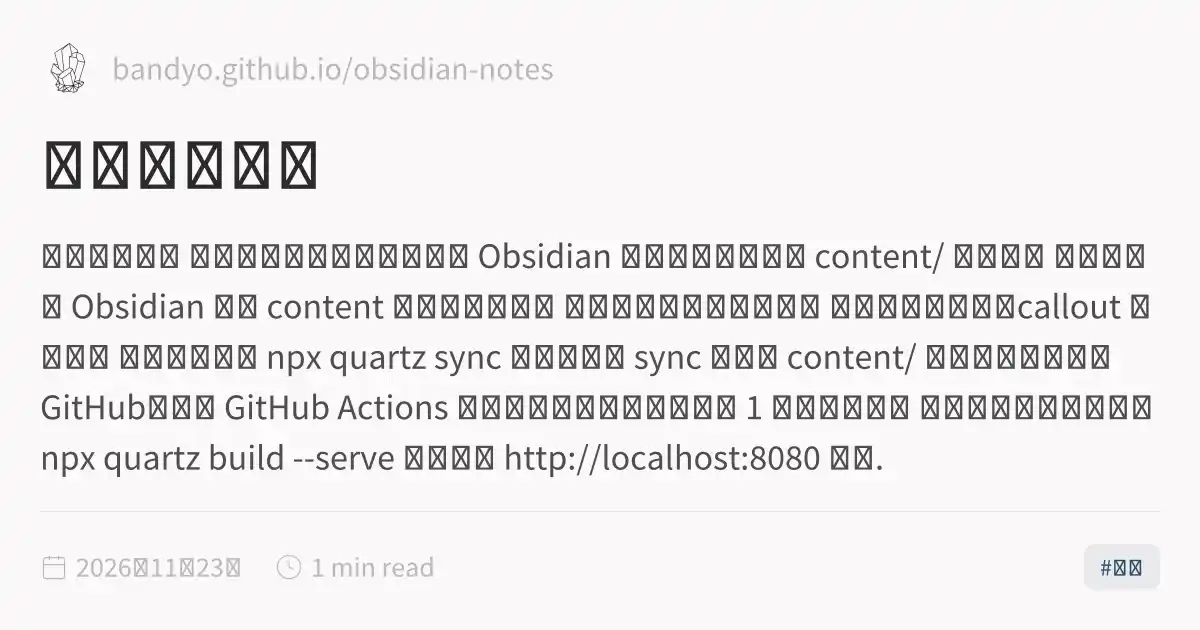
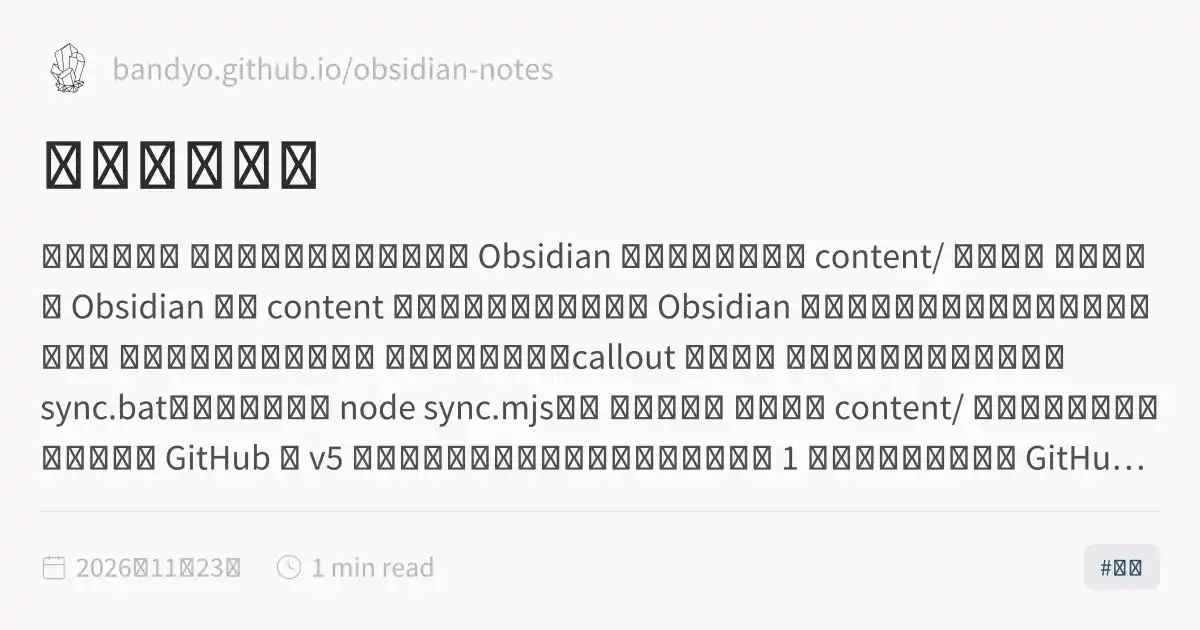
Publish Quartz site: 2026-11-24T01:07:00.835Z

Changed region(s): [[0.0308, 0.5429, 0.9867, 0.754], [0.4625, 0.4524, 0.9558, 0.5127]]

diff --git a/如何发布笔记.html b/如何发布笔记.html
@@ -1,15 +1,14 @@
 <!DOCTYPE html>
-<html lang="zh" dir="ltr"><head><title>如何发布笔记</title><meta charset="utf-8"/><link rel="preload" href="./index-efccc929.css" as="style"/><link rel="preload" href="./prescript-2bfc6315.js" as="script"/><link rel="preconnect" href="https://fonts.googleapis.com"/><link rel="preconnect" href="https://fonts.gstatic.com"/><link rel="stylesheet" href="https://fonts.googleapis.com/css2?family=Schibsted Grotesk:wght@400;700&amp;family=Source Sans Pro:ital,wght@0,400;0,600;1,400;1,600&amp;family=IBM Plex Mono:wght@400;600&amp;display=swap"/><link rel="preconnect" href="https://cdnjs.cloudflare.com" crossorigin="anonymous"/><meta name="viewport" content="width=device-width, initial-scale=1.0"/><meta name="og:site_name" content="我的笔记"/><meta property="og:title" content="如何发布笔记"/><meta property="og:type" content="website"/><meta name="twitter:card" content="summary_large_image"/><meta name="twitter:title" content="如何发布笔记"/><meta name="twitter:description" content="如何发布笔记 这个网站的源文件就是一个 Obsidian 库，位置在项目的 content/ 文件夹。 日常流程 用 Obsidian 打开 content 文件夹作为库。 像平常一样写笔记，支持 双向链接、标签、callout 等语法。 在终端执行： npx quartz sync 发生了什么 sync 会提交 content/ 里的改动并推送到 GitHub，随后 GitHub Actions 自动构建并发布网站，通常 1 分钟内生效。 如果只想先本地预览： npx quartz build --serve 然后打开 http://localhost:8080 指南."/><meta property="og:description" content="如何发布笔记 这个网站的源文件就是一个 Obsidian 库，位置在项目的 content/ 文件夹。 日常流程 用 Obsidian 打开 content 文件夹作为库。 像平常一样写笔记，支持 双向链接、标签、callout 等语法。 在终端执行： npx quartz sync 发生了什么 sync 会提交 content/ 里的改动并推送到 GitHub，随后 GitHub Actions 自动构建并发布网站，通常 1 分钟内生效。 如果只想先本地预览： npx quartz build --serve 然后打开 http://localhost:8080 指南."/><meta property="og:image:alt" content="如何发布笔记 这个网站的源文件就是一个 Obsidian 库，位置在项目的 content/ 文件夹。 日常流程 用 Obsidian 打开 content 文件夹作为库。 像平常一样写笔记，支持 双向链接、标签、callout 等语法。 在终端执行： npx quartz sync 发生了什么 sync 会提交 content/ 里的改动并推送到 GitHub，随后 GitHub Actions 自动构建并发布网站，通常 1 分钟内生效。 如果只想先本地预览： npx quartz build --serve 然后打开 http://localhost:8080 指南."/><meta property="twitter:domain" content="bandyo.github.io/obsidian-notes"/><meta property="og:url" content="https://bandyo.github.io/obsidian-notes/如何发布笔记"/><meta property="twitter:url" content="https://bandyo.github.io/obsidian-notes/如何发布笔记"/><link rel="icon" href="./static/icon.png"/><meta name="description" content="如何发布笔记 这个网站的源文件就是一个 Obsidian 库，位置在项目的 content/ 文件夹。 日常流程 用 Obsidian 打开 content 文件夹作为库。 像平常一样写笔记，支持 双向链接、标签、callout 等语法。 在终端执行： npx quartz sync 发生了什么 sync 会提交 content/ 里的改动并推送到 GitHub，随后 GitHub Actions 自动构建并发布网站，通常 1 分钟内生效。 如果只想先本地预览： npx quartz build --serve 然后打开 http://localhost:8080 指南."/><meta name="generator" content="Quartz"/><link href="./index-efccc929.css" rel="stylesheet" type="text/css" data-persist="true"/><link href="./component-735924e0.css" rel="stylesheet" type="text/css" data-persist="true"/><link href="./component-589c1cea.css" rel="stylesheet" type="text/css" data-persist="true"/><link href="./component-bbc3f7c0.css" rel="stylesheet" type="text/css" data-persist="true"/><link href="./component-2911f5d1.css" rel="stylesheet" type="text/css" data-persist="true"/><link href="./component-e427079e.css" rel="stylesheet" type="text/css" data-persist="true"/><link href="./component-53b25b2b.css" rel="stylesheet" type="text/css" data-persist="true"/><link href="./component-c93c6a44.css" rel="stylesheet" type="text/css" data-persist="true"/><link href="./component-8a06014f.css" rel="stylesheet" type="text/css" data-persist="true"/><link href="./component-77d6a441.css" rel="stylesheet" type="text/css" data-persist="true"/><link href="./component-6ee21cee.css" rel="stylesheet" type="text/css" data-persist="true"/><link href="./component-b43df3ac.css" rel="stylesheet" type="text/css" data-persist="true"/><link href="./component-34bdfded.css" rel="stylesheet" type="text/css" data-persist="true"/><link href="./component-9406c2cd.css" rel="stylesheet" type="text/css" data-persist="true"/><link href="./component-642859cd.css" rel="stylesheet" type="text/css" data-persist="true"/><link href="./component-4abc06bd.css" rel="stylesheet" type="text/css" data-persist="true"/><link href="./component-274a3dfe.css" rel="stylesheet" type="text/css" data-persist="true"/><link href="./component-94cb6c84.css" rel="stylesheet" type="text/css" data-persist="true"/><link href="./component-03d1d388.css" rel="stylesheet" type="text/css" data-persist="true"/><link href="./component-9f9b2774.css" rel="stylesheet" type="text/css" data-persist="true"/><link href="./component-7262b5a7.css" rel="stylesheet" type="text/css" data-persist="true"/><link href="./static/resource-style-a72b8c1b.css" rel="stylesheet" type="text/css" data-persist="true"/><link href="./static/resource-style-a5c806d2.css" rel="stylesheet" type="text/css" data-persist="true"/><link href="./static/resource-style-1c42656b.css" rel="stylesheet" type="text/css" data-persist="true"/><link href="./static/resource-style-12ad65a1.css" rel="stylesheet" type="text/css" data-persist="true"/><link href="./static/resource-style-cc3b757c.css" rel="stylesheet" type="text/css" data-persist="true"/><link href="./static/resource-style-89d3cd78.css" rel="stylesheet" type="text/css" data-persist="true"/><link href="https://cdn.jsdelivr.net/npm/katex@0.16.11/dist/katex.min.css" rel="stylesheet" type="text/css" data-persist="true"/><link href="./static/resource-style-99ba291e.css" rel="stylesheet" type="text/css" data-persist="true"/><script src="./prescript-2bfc6315.js" type="application/javascript" data-persist="true"></script><script type="application/javascript" data-persist="true">const fetchData = fetch("./static/contentIndex.json").then(r => { if (!r.ok) throw new Error("HTTP " + r.status); return r.json() }).catch(e => { console.warn("[Quartz] Could not load ./static/contentIndex.json (" + e.message + "); is configuration.contentIndex disabled?"); return {} });window.quartzStaticUrl = new URL("./static/", location.href).href</script><meta property="og:image:width" content="1200"/><meta property="og:image:height" content="630"/><meta property="og:image" content="https://bandyo.github.io/obsidian-notes/如何发布笔记-og-image.webp"/><meta property="og:image:url" content="https://bandyo.github.io/obsidian-notes/如何发布笔记-og-image.webp"/><meta name="twitter:image" content="https://bandyo.github.io/obsidian-notes/如何发布笔记-og-image.webp"/><meta property="og:image:type" content="image/webp"/></head><body data-slug="如何发布笔记" data-basepath="/obsidian-notes"><div id="quartz-root" class="page" data-frame="default"><div id="quartz-body"><div class="left sidebar" data-sidebar-mode="fit"><h2 class="page-title" data-quartz-plugin="page-title" data-quartz-component="PageTitle"><a href=".">我的笔记</a></h2><div class="mobile-only"><div class="spacer" data-quartz-plugin="spacer" data-quartz-component="Spacer"></div></div><div class="flex-component" style="flex-direction: row; flex-wrap: nowrap; gap: 0.5rem;"><div style="flex-grow: 1; flex-shrink: 1; flex-basis: auto; order: 0; align-self: center; justify-self: center;"><div class="search" data-quartz-plugin="search" data-quartz-component="Search"><button class="search-button" aria-label="搜索" aria-expanded="false"><svg role="img" xmlns="http://www.w3.org/2000/svg" viewBox="0 0 19.9 19.7"><title>Search</title><g class="search-path" fill="none"><path stroke-linecap="square" d="M18.5 18.3l-5.4-5.4"></path><circle cx="8" cy="8" r="7"></circle></g></svg><p>搜索</p></button><div class="search-container"><div class="search-space"><input autocomplete="off" class="search-bar" name="search" type="text" aria-label="搜索内容..." placeholder="搜索内容..."/><div class="search-layout" data-preview="true" data-field-priority="[&quot;title&quot;,&quot;content&quot;,&quot;tags&quot;]"></div></div></div></div></div><div style="flex-grow: 0; flex-shrink: 1; flex-basis: auto; order: 0; align-self: center; justify-self: center;"><button class="darkmode" aria-label="暗色模式" data-quartz-plugin="darkmode" data-quartz-component="Darkmode"><svg xmlns="http://www.w3.org/2000/svg" xmlns:xlink="http://www.w3.org/1999/xlink" version="1.1" class="dayIcon" x="0px" y="0px" viewBox="0 0 35 35" style="enable-background:new 0 0 35 35" xml:space="preserve" aria-label="暗色模式"><title>暗色模式</title><path d="M6,17.5C6,16.672,5.328,16,4.5,16h-3C0.672,16,0,16.672,0,17.5    S0.672,19,1.5,19h3C5.328,19,6,18.328,6,17.5z M7.5,26c-0.414,0-0.789,0.168-1.061,0.439l-2,2C4.168,28.711,4,29.086,4,29.5    C4,30.328,4.671,31,5.5,31c0.414,0,0.789-0.168,1.06-0.44l2-2C8.832,28.289,9,27.914,9,27.5C9,26.672,8.329,26,7.5,26z M17.5,6    C18.329,6,19,5.328,19,4.5v-3C19,0.672,18.329,0,17.5,0S16,0.672,16,1.5v3C16,5.328,16.671,6,17.5,6z M27.5,9    c0.414,0,0.789-0.168,1.06-0.439l2-2C30.832,6.289,31,5.914,31,5.5C31,4.672,30.329,4,29.5,4c-0.414,0-0.789,0.168-1.061,0.44    l-2,2C26.168,6.711,26,7.086,26,7.5C26,8.328,26.671,9,27.5,9z M6.439,8.561C6.711,8.832,7.086,9,7.5,9C8.328,9,9,8.328,9,7.5    c0-0.414-0.168-0.789-0.439-1.061l-2-2C6.289,4.168,5.914,4,5.5,4C4.672,4,4,4.672,4,5.5c0,0.414,0.168,0.789,0.439,1.06    L6.439,8.561z M33.5,16h-3c-0.828,0-1.5,0.672-1.5,1.5s0.672,1.5,1.5,1.5h3c0.828,0,1.5-0.672,1.5-1.5S34.328,16,33.5,16z     M28.561,26.439C28.289,26.168,27.914,26,27.5,26c-0.828,0-1.5,0.672-1.5,1.5c0,0.414,0.168,0.789,0.439,1.06l2,2    C28.711,30.832,29.086,31,29.5,31c0.828,0,1.5-0.672,1.5-1.5c0-0.414-0.168-0.789-0.439-1.061L28.561,26.439z M17.5,29    c-0.829,0-1.5,0.672-1.5,1.5v3c0,0.828,0.671,1.5,1.5,1.5s1.5-0.672,1.5-1.5v-3C19,29.672,18.329,29,17.5,29z M17.5,7    C11.71,7,7,11.71,7,17.5S11.71,28,17.5,28S28,23.29,28,17.5S23.29,7,17.5,7z M17.5,25c-4.136,0-7.5-3.364-7.5-7.5    c0-4.136,3.364-7.5,7.5-7.5c4.136,0,7.5,3.364,7.5,7.5C25,21.636,21.636,25,17.5,25z"></path></svg><svg xmlns="http://www.w3.org/2000/svg" xmlns:xlink="http://www.w3.org/1999/xlink" version="1.1" class="nightIcon" x="0px" y="0px" viewBox="0 0 100 100" style="enable-background:new 0 0 100 100" xml:space="preserve" aria-label="亮色模式"><title>亮色模式</title><path d="M96.76,66.458c-0.853-0.852-2.15-1.064-3.23-0.534c-6.063,2.991-12.858,4.571-19.655,4.571  C62.022,70.495,50.88,65.88,42.5,57.5C29.043,44.043,25.658,23.536,34.076,6.47c0.532-1.08,0.318-2.379-0.534-3.23  c-0.851-0.852-2.15-1.064-3.23-0.534c-4.918,2.427-9.375,5.619-13.246,9.491c-9.447,9.447-14.65,22.008-14.65,35.369  c0,13.36,5.203,25.921,14.65,35.368s22.008,14.65,35.368,14.65c13.361,0,25.921-5.203,35.369-14.65  c3.872-3.871,7.064-8.328,9.491-13.246C97.826,68.608,97.611,67.309,96.76,66.458z"></path></svg></button></div><div style="flex-grow: 0; flex-shrink: 1; flex-basis: auto; order: 0; align-self: center; justify-self: center;"><button class="readermode" aria-label="阅读模式" data-quartz-plugin="reader-mode" data-quartz-component="ReaderMode"><svg xmlns="http://www.w3.org/2000/svg" xmlns:xlink="http://www.w3.org/1999/xlink" version="1.1" class="readerIcon" fill="currentColor" stroke="currentColor" stroke-width="0.2" stroke-linecap="round" stroke-linejoin="round" width="64px" height="64px" viewBox="0 0 24 24" aria-label="阅读模式"><title>阅读模式</title><g transform="translate(-1.8, -1.8) scale(1.15, 1.2)"><path d="M8.9891247,2.5 C10.1384702,2.5 11.2209868,2.96705384 12.0049645,3.76669482 C12.7883914,2.96705384 13.8709081,2.5 15.0202536,2.5 L18.7549359,2.5 C19.1691495,2.5 19.5049359,2.83578644 19.5049359,3.25 L19.5046891,4.004 L21.2546891,4.00457396 C21.6343849,4.00457396 21.9481801,4.28672784 21.9978425,4.6528034 L22.0046891,4.75457396 L22.0046891,20.25 C22.0046891,20.6296958 21.7225353,20.943491 21.3564597,20.9931534 L21.2546891,21 L2.75468914,21 C2.37499337,21 2.06119817,20.7178461 2.01153575,20.3517706 L2.00468914,20.25 L2.00468914,4.75457396 C2.00468914,4.37487819 2.28684302,4.061083 2.65291858,4.01142057 L2.75468914,4.00457396 L4.50368914,4.004 L4.50444233,3.25 C4.50444233,2.87030423 4.78659621,2.55650904 5.15267177,2.50684662 L5.25444233,2.5 L8.9891247,2.5 Z M4.50368914,5.504 L3.50468914,5.504 L3.50468914,19.5 L10.9478955,19.4998273 C10.4513189,18.9207296 9.73864328,18.5588115 8.96709342,18.5065584 L8.77307039,18.5 L5.25444233,18.5 C4.87474657,18.5 4.56095137,18.2178461 4.51128895,17.8517706 L4.50444233,17.75 L4.50368914,5.504 Z M19.5049359,17.75 C19.5049359,18.1642136 19.1691495,18.5 18.7549359,18.5 L15.2363079,18.5 C14.3910149,18.5 13.5994408,18.8724714 13.0614828,19.4998273 L20.5046891,19.5 L20.5046891,5.504 L19.5046891,5.504 L19.5049359,17.75 Z M18.0059359,3.999 L15.0202536,4 L14.8259077,4.00692283 C13.9889509,4.06666544 13.2254227,4.50975805 12.7549359,5.212 L12.7549359,17.777 L12.7782651,17.7601316 C13.4923805,17.2719483 14.3447024,17 15.2363079,17 L18.0059359,16.999 L18.0056891,4.798 L18.0033792,4.75457396 L18.0056891,4.71 L18.0059359,3.999 Z M8.9891247,4 L6.00368914,3.999 L6.00599909,4.75457396 L6.00599909,4.75457396 L6.00368914,4.783 L6.00368914,16.999 L8.77307039,17 C9.57551536,17 10.3461406,17.2202781 11.0128313,17.6202194 L11.2536891,17.776 L11.2536891,5.211 C10.8200889,4.56369974 10.1361548,4.13636104 9.37521067,4.02745763 L9.18347055,4.00692283 L8.9891247,4 Z"></path></g></svg></button></div></div><div class="explorer" data-behavior="link" data-collapsed="collapsed" data-savestate="true" data-data-fns="{&quot;order&quot;:[&quot;filter&quot;,&quot;map&quot;,&quot;sort&quot;],&quot;sortFn&quot;:&quot;(a, b) => {\n    if (!a.isFolder &amp;&amp; !b.isFolder || a.isFolder &amp;&amp; b.isFolder) {\n      return (a.displayName || \&quot;\&quot;).localeCompare(b.displayName || \&quot;\&quot;, void 0, {\n        numeric: true,\n        sensitivity: \&quot;base\&quot;\n      });\n    }\n    if (!a.isFolder &amp;&amp; b.isFolder) {\n      return 1;\n    }\n    return -1;\n  }&quot;,&quot;filterFn&quot;:&quot;(node) => node.slugSegment !== \&quot;tags\&quot;&quot;,&quot;mapFn&quot;:&quot;(node) => {\n    return node;\n  }&quot;}" data-quartz-plugin="explorer" data-quartz-component="Explorer"><button type="button" class="explorer-toggle mobile-explorer hide-until-loaded" data-mobile="true" aria-controls="explorer-4" aria-label="探索"><svg xmlns="http://www.w3.org/2000/svg" width="24" height="24" viewBox="0 0 24 24" stroke-width="2" stroke-linecap="round" stroke-linejoin="round" class="lucide-menu"><line x1="4" x2="20" y1="12" y2="12"></line><line x1="4" x2="20" y1="6" y2="6"></line><line x1="4" x2="20" y1="18" y2="18"></line></svg></button><button type="button" class="title-button explorer-toggle desktop-explorer" data-mobile="false" aria-expanded="true"><h2>探索</h2><svg xmlns="http://www.w3.org/2000/svg" width="14" height="14" viewBox="5 8 14 8" fill="none" stroke="currentColor" stroke-width="2" stroke-linecap="round" stroke-linejoin="round" class="fold"><polyline points="6 9 12 15 18 9"></polyline></svg></button><div id="explorer-4" class="explorer-content" aria-expanded="false" role="group"><ul class="explorer-ul nav-files-container overflow" id="list-0"><li class="overflow-end"></li></ul></div><template id="template-file"><li class="tree-item nav-file"><a href="#" class="nav-file-title tree-item-self"><span class="tree-item-inner nav-file-title-content"></span></a></li></template><template id="template-folder"><li class="tree-item nav-folder"><div class="folder-container nav-folder-title tree-item-self"><svg xmlns="http://www.w3.org/2000/svg" width="12" height="12" viewBox="5 8 14 8" fill="none" stroke="currentColor" stroke-width="2" stroke-linecap="round" stroke-linejoin="round" class="folder-icon nav-folder-collapse-indicator collapse-icon"><polyline points="6 9 12 15 18 9"></polyline></svg><div><button class="folder-button"><span class="folder-title tree-item-inner nav-folder-title-content"></span></button></div></div><div class="folder-outer"><ul class="content tree-item-children nav-folder-children"></ul></div></li></template></div></div><div class="center"><div class="page-header"><div class="popover-hint"><nav class="breadcrumb-container" aria-label="breadcrumbs" data-quartz-plugin="breadcrumbs" data-quartz-component="Breadcrumbs"><div class="breadcrumb-element"><a href="./">Home</a><p> ❯ </p></div><div class="breadcrumb-element"><a href>如何发布笔记</a></div></nav><h1 class="article-title inline-title" data-quartz-plugin="article-title" data-quartz-component="ArticleTitle">如何发布笔记</h1><details class="note-properties metadata-container" open data-collapsed="false" data-quartz-plugin="note-properties" data-quartz-component="NotePropertiesComponent"><summary class="note-properties-header"><span class="note-properties-title">Properties</span><span class="note-properties-count">1</span></summary><table class="note-properties-table"><tbody><tr class="note-properties-row metadata-property"><td class="note-properties-key metadata-property-key">tags</td><td class="note-properties-value metadata-property-value"><span class="note-properties-tags"><a href="./tags/指南" class="internal internal-link tag-link">指南</a></span></td></tr></tbody></table></details><p show-comma="true" class="content-meta" data-quartz-plugin="content-meta" data-quartz-component="ContentMeta"><time datetime="2026-11-23T08:01:24.000Z">2026年11月23日</time><span>1分钟阅读</span></p></div></div><article class="popover-hint" data-quartz-plugin="content-page" data-quartz-component="ContentPage"><div class="markdown-preview-view markdown-rendered"><h1 id="如何发布笔记">如何发布笔记<a role="anchor" aria-hidden tabindex="-1" data-no-popover href="#如何发布笔记" class="internal internal-link"><svg width="18" height="18" viewBox="0 0 24 24" fill="none" stroke="currentColor" stroke-width="2" stroke-linecap="round" stroke-linejoin="round"><path d="M10 13a5 5 0 0 0 7.54.54l3-3a5 5 0 0 0-7.07-7.07l-1.72 1.71"></path><path d="M14 11a5 5 0 0 0-7.54-.54l-3 3a5 5 0 0 0 7.07 7.07l1.71-1.71"></path></svg></a></h1>
+<html lang="zh" dir="ltr"><head><title>如何发布笔记</title><meta charset="utf-8"/><link rel="preload" href="./index-efccc929.css" as="style"/><link rel="preload" href="./prescript-2bfc6315.js" as="script"/><link rel="preconnect" href="https://fonts.googleapis.com"/><link rel="preconnect" href="https://fonts.gstatic.com"/><link rel="stylesheet" href="https://fonts.googleapis.com/css2?family=Schibsted Grotesk:wght@400;700&amp;family=Source Sans Pro:ital,wght@0,400;0,600;1,400;1,600&amp;family=IBM Plex Mono:wght@400;600&amp;display=swap"/><link rel="preconnect" href="https://cdnjs.cloudflare.com" crossorigin="anonymous"/><meta name="viewport" content="width=device-width, initial-scale=1.0"/><meta name="og:site_name" content="我的笔记"/><meta property="og:title" content="如何发布笔记"/><meta property="og:type" content="website"/><meta name="twitter:card" content="summary_large_image"/><meta name="twitter:title" content="如何发布笔记"/><meta name="twitter:description" content="如何发布笔记 这个网站的源文件就是一个 Obsidian 库，位置在项目的 content/ 文件夹。 日常流程 用 Obsidian 打开 content 文件夹作为库（已注册到 Obsidian 的库列表，直接选「我的笔记」即可）。 像平常一样写笔记，支持 双向链接、标签、callout 等语法。 保存后，双击项目根目录的 sync.bat（或在终端运行 node sync.mjs）。 发生了什么 脚本会把 content/ 里的新增、修改、删除同步到 GitHub 的 v5 分支，然后自动构建并发布到网站，通常 1 分钟内生效。全程走 GitHub API，不需要 Git 推送。 如果只..."/><meta property="og:description" content="如何发布笔记 这个网站的源文件就是一个 Obsidian 库，位置在项目的 content/ 文件夹。 日常流程 用 Obsidian 打开 content 文件夹作为库（已注册到 Obsidian 的库列表，直接选「我的笔记」即可）。 像平常一样写笔记，支持 双向链接、标签、callout 等语法。 保存后，双击项目根目录的 sync.bat（或在终端运行 node sync.mjs）。 发生了什么 脚本会把 content/ 里的新增、修改、删除同步到 GitHub 的 v5 分支，然后自动构建并发布到网站，通常 1 分钟内生效。全程走 GitHub API，不需要 Git 推送。 如果只..."/><meta property="og:image:alt" content="如何发布笔记 这个网站的源文件就是一个 Obsidian 库，位置在项目的 content/ 文件夹。 日常流程 用 Obsidian 打开 content 文件夹作为库（已注册到 Obsidian 的库列表，直接选「我的笔记」即可）。 像平常一样写笔记，支持 双向链接、标签、callout 等语法。 保存后，双击项目根目录的 sync.bat（或在终端运行 node sync.mjs）。 发生了什么 脚本会把 content/ 里的新增、修改、删除同步到 GitHub 的 v5 分支，然后自动构建并发布到网站，通常 1 分钟内生效。全程走 GitHub API，不需要 Git 推送。 如果只..."/><meta property="twitter:domain" content="bandyo.github.io/obsidian-notes"/><meta property="og:url" content="https://bandyo.github.io/obsidian-notes/如何发布笔记"/><meta property="twitter:url" content="https://bandyo.github.io/obsidian-notes/如何发布笔记"/><link rel="icon" href="./static/icon.png"/><meta name="description" content="如何发布笔记 这个网站的源文件就是一个 Obsidian 库，位置在项目的 content/ 文件夹。 日常流程 用 Obsidian 打开 content 文件夹作为库（已注册到 Obsidian 的库列表，直接选「我的笔记」即可）。 像平常一样写笔记，支持 双向链接、标签、callout 等语法。 保存后，双击项目根目录的 sync.bat（或在终端运行 node sync.mjs）。 发生了什么 脚本会把 content/ 里的新增、修改、删除同步到 GitHub 的 v5 分支，然后自动构建并发布到网站，通常 1 分钟内生效。全程走 GitHub API，不需要 Git 推送。 如果只..."/><meta name="generator" content="Quartz"/><link href="./index-efccc929.css" rel="stylesheet" type="text/css" data-persist="true"/><link href="./component-735924e0.css" rel="stylesheet" type="text/css" data-persist="true"/><link href="./component-589c1cea.css" rel="stylesheet" type="text/css" data-persist="true"/><link href="./component-bbc3f7c0.css" rel="stylesheet" type="text/css" data-persist="true"/><link href="./component-2911f5d1.css" rel="stylesheet" type="text/css" data-persist="true"/><link href="./component-e427079e.css" rel="stylesheet" type="text/css" data-persist="true"/><link href="./component-53b25b2b.css" rel="stylesheet" type="text/css" data-persist="true"/><link href="./component-c93c6a44.css" rel="stylesheet" type="text/css" data-persist="true"/><link href="./component-8a06014f.css" rel="stylesheet" type="text/css" data-persist="true"/><link href="./component-77d6a441.css" rel="stylesheet" type="text/css" data-persist="true"/><link href="./component-6ee21cee.css" rel="stylesheet" type="text/css" data-persist="true"/><link href="./component-b43df3ac.css" rel="stylesheet" type="text/css" data-persist="true"/><link href="./component-34bdfded.css" rel="stylesheet" type="text/css" data-persist="true"/><link href="./component-9406c2cd.css" rel="stylesheet" type="text/css" data-persist="true"/><link href="./component-642859cd.css" rel="stylesheet" type="text/css" data-persist="true"/><link href="./component-4abc06bd.css" rel="stylesheet" type="text/css" data-persist="true"/><link href="./component-274a3dfe.css" rel="stylesheet" type="text/css" data-persist="true"/><link href="./component-94cb6c84.css" rel="stylesheet" type="text/css" data-persist="true"/><link href="./component-03d1d388.css" rel="stylesheet" type="text/css" data-persist="true"/><link href="./component-9f9b2774.css" rel="stylesheet" type="text/css" data-persist="true"/><link href="./component-7262b5a7.css" rel="stylesheet" type="text/css" data-persist="true"/><link href="./static/resource-style-a72b8c1b.css" rel="stylesheet" type="text/css" data-persist="true"/><link href="./static/resource-style-a5c806d2.css" rel="stylesheet" type="text/css" data-persist="true"/><link href="./static/resource-style-1c42656b.css" rel="stylesheet" type="text/css" data-persist="true"/><link href="./static/resource-style-12ad65a1.css" rel="stylesheet" type="text/css" data-persist="true"/><link href="./static/resource-style-cc3b757c.css" rel="stylesheet" type="text/css" data-persist="true"/><link href="./static/resource-style-89d3cd78.css" rel="stylesheet" type="text/css" data-persist="true"/><link href="https://cdn.jsdelivr.net/npm/katex@0.16.11/dist/katex.min.css" rel="stylesheet" type="text/css" data-persist="true"/><link href="./static/resource-style-99ba291e.css" rel="stylesheet" type="text/css" data-persist="true"/><script src="./prescript-2bfc6315.js" type="application/javascript" data-persist="true"></script><script type="application/javascript" data-persist="true">const fetchData = fetch("./static/contentIndex.json").then(r => { if (!r.ok) throw new Error("HTTP " + r.status); return r.json() }).catch(e => { console.warn("[Quartz] Could not load ./static/contentIndex.json (" + e.message + "); is configuration.contentIndex disabled?"); return {} });window.quartzStaticUrl = new URL("./static/", location.href).href</script><meta property="og:image:width" content="1200"/><meta property="og:image:height" content="630"/><meta property="og:image" content="https://bandyo.github.io/obsidian-notes/如何发布笔记-og-image.webp"/><meta property="og:image:url" content="https://bandyo.github.io/obsidian-notes/如何发布笔记-og-image.webp"/><meta name="twitter:image" content="https://bandyo.github.io/obsidian-notes/如何发布笔记-og-image.webp"/><meta property="og:image:type" content="image/webp"/></head><body data-slug="如何发布笔记" data-basepath="/obsidian-notes"><div id="quartz-root" class="page" data-frame="default"><div id="quartz-body"><div class="left sidebar" data-sidebar-mode="fit"><h2 class="page-title" data-quartz-plugin="page-title" data-quartz-component="PageTitle"><a href=".">我的笔记</a></h2><div class="mobile-only"><div class="spacer" data-quartz-plugin="spacer" data-quartz-component="Spacer"></div></div><div class="flex-component" style="flex-direction: row; flex-wrap: nowrap; gap: 0.5rem;"><div style="flex-grow: 1; flex-shrink: 1; flex-basis: auto; order: 0; align-self: center; justify-self: center;"><div class="search" data-quartz-plugin="search" data-quartz-component="Search"><button class="search-button" aria-label="搜索" aria-expanded="false"><svg role="img" xmlns="http://www.w3.org/2000/svg" viewBox="0 0 19.9 19.7"><title>Search</title><g class="search-path" fill="none"><path stroke-linecap="square" d="M18.5 18.3l-5.4-5.4"></path><circle cx="8" cy="8" r="7"></circle></g></svg><p>搜索</p></button><div class="search-container"><div class="search-space"><input autocomplete="off" class="search-bar" name="search" type="text" aria-label="搜索内容..." placeholder="搜索内容..."/><div class="search-layout" data-preview="true" data-field-priority="[&quot;title&quot;,&quot;content&quot;,&quot;tags&quot;]"></div></div></div></div></div><div style="flex-grow: 0; flex-shrink: 1; flex-basis: auto; order: 0; align-self: center; justify-self: center;"><button class="darkmode" aria-label="暗色模式" data-quartz-plugin="darkmode" data-quartz-component="Darkmode"><svg xmlns="http://www.w3.org/2000/svg" xmlns:xlink="http://www.w3.org/1999/xlink" version="1.1" class="dayIcon" x="0px" y="0px" viewBox="0 0 35 35" style="enable-background:new 0 0 35 35" xml:space="preserve" aria-label="暗色模式"><title>暗色模式</title><path d="M6,17.5C6,16.672,5.328,16,4.5,16h-3C0.672,16,0,16.672,0,17.5    S0.672,19,1.5,19h3C5.328,19,6,18.328,6,17.5z M7.5,26c-0.414,0-0.789,0.168-1.061,0.439l-2,2C4.168,28.711,4,29.086,4,29.5    C4,30.328,4.671,31,5.5,31c0.414,0,0.789-0.168,1.06-0.44l2-2C8.832,28.289,9,27.914,9,27.5C9,26.672,8.329,26,7.5,26z M17.5,6    C18.329,6,19,5.328,19,4.5v-3C19,0.672,18.329,0,17.5,0S16,0.672,16,1.5v3C16,5.328,16.671,6,17.5,6z M27.5,9    c0.414,0,0.789-0.168,1.06-0.439l2-2C30.832,6.289,31,5.914,31,5.5C31,4.672,30.329,4,29.5,4c-0.414,0-0.789,0.168-1.061,0.44    l-2,2C26.168,6.711,26,7.086,26,7.5C26,8.328,26.671,9,27.5,9z M6.439,8.561C6.711,8.832,7.086,9,7.5,9C8.328,9,9,8.328,9,7.5    c0-0.414-0.168-0.789-0.439-1.061l-2-2C6.289,4.168,5.914,4,5.5,4C4.672,4,4,4.672,4,5.5c0,0.414,0.168,0.789,0.439,1.06    L6.439,8.561z M33.5,16h-3c-0.828,0-1.5,0.672-1.5,1.5s0.672,1.5,1.5,1.5h3c0.828,0,1.5-0.672,1.5-1.5S34.328,16,33.5,16z     M28.561,26.439C28.289,26.168,27.914,26,27.5,26c-0.828,0-1.5,0.672-1.5,1.5c0,0.414,0.168,0.789,0.439,1.06l2,2    C28.711,30.832,29.086,31,29.5,31c0.828,0,1.5-0.672,1.5-1.5c0-0.414-0.168-0.789-0.439-1.061L28.561,26.439z M17.5,29    c-0.829,0-1.5,0.672-1.5,1.5v3c0,0.828,0.671,1.5,1.5,1.5s1.5-0.672,1.5-1.5v-3C19,29.672,18.329,29,17.5,29z M17.5,7    C11.71,7,7,11.71,7,17.5S11.71,28,17.5,28S28,23.29,28,17.5S23.29,7,17.5,7z M17.5,25c-4.136,0-7.5-3.364-7.5-7.5    c0-4.136,3.364-7.5,7.5-7.5c4.136,0,7.5,3.364,7.5,7.5C25,21.636,21.636,25,17.5,25z"></path></svg><svg xmlns="http://www.w3.org/2000/svg" xmlns:xlink="http://www.w3.org/1999/xlink" version="1.1" class="nightIcon" x="0px" y="0px" viewBox="0 0 100 100" style="enable-background:new 0 0 100 100" xml:space="preserve" aria-label="亮色模式"><title>亮色模式</title><path d="M96.76,66.458c-0.853-0.852-2.15-1.064-3.23-0.534c-6.063,2.991-12.858,4.571-19.655,4.571  C62.022,70.495,50.88,65.88,42.5,57.5C29.043,44.043,25.658,23.536,34.076,6.47c0.532-1.08,0.318-2.379-0.534-3.23  c-0.851-0.852-2.15-1.064-3.23-0.534c-4.918,2.427-9.375,5.619-13.246,9.491c-9.447,9.447-14.65,22.008-14.65,35.369  c0,13.36,5.203,25.921,14.65,35.368s22.008,14.65,35.368,14.65c13.361,0,25.921-5.203,35.369-14.65  c3.872-3.871,7.064-8.328,9.491-13.246C97.826,68.608,97.611,67.309,96.76,66.458z"></path></svg></button></div><div style="flex-grow: 0; flex-shrink: 1; flex-basis: auto; order: 0; align-self: center; justify-self: center;"><button class="readermode" aria-label="阅读模式" data-quartz-plugin="reader-mode" data-quartz-component="ReaderMode"><svg xmlns="http://www.w3.org/2000/svg" xmlns:xlink="http://www.w3.org/1999/xlink" version="1.1" class="readerIcon" fill="currentColor" stroke="currentColor" stroke-width="0.2" stroke-linecap="round" stroke-linejoin="round" width="64px" height="64px" viewBox="0 0 24 24" aria-label="阅读模式"><title>阅读模式</title><g transform="translate(-1.8, -1.8) scale(1.15, 1.2)"><path d="M8.9891247,2.5 C10.1384702,2.5 11.2209868,2.96705384 12.0049645,3.76669482 C12.7883914,2.96705384 13.8709081,2.5 15.0202536,2.5 L18.7549359,2.5 C19.1691495,2.5 19.5049359,2.83578644 19.5049359,3.25 L19.5046891,4.004 L21.2546891,4.00457396 C21.6343849,4.00457396 21.9481801,4.28672784 21.9978425,4.6528034 L22.0046891,4.75457396 L22.0046891,20.25 C22.0046891,20.6296958 21.7225353,20.943491 21.3564597,20.9931534 L21.2546891,21 L2.75468914,21 C2.37499337,21 2.06119817,20.7178461 2.01153575,20.3517706 L2.00468914,20.25 L2.00468914,4.75457396 C2.00468914,4.37487819 2.28684302,4.061083 2.65291858,4.01142057 L2.75468914,4.00457396 L4.50368914,4.004 L4.50444233,3.25 C4.50444233,2.87030423 4.78659621,2.55650904 5.15267177,2.50684662 L5.25444233,2.5 L8.9891247,2.5 Z M4.50368914,5.504 L3.50468914,5.504 L3.50468914,19.5 L10.9478955,19.4998273 C10.4513189,18.9207296 9.73864328,18.5588115 8.96709342,18.5065584 L8.77307039,18.5 L5.25444233,18.5 C4.87474657,18.5 4.56095137,18.2178461 4.51128895,17.8517706 L4.50444233,17.75 L4.50368914,5.504 Z M19.5049359,17.75 C19.5049359,18.1642136 19.1691495,18.5 18.7549359,18.5 L15.2363079,18.5 C14.3910149,18.5 13.5994408,18.8724714 13.0614828,19.4998273 L20.5046891,19.5 L20.5046891,5.504 L19.5046891,5.504 L19.5049359,17.75 Z M18.0059359,3.999 L15.0202536,4 L14.8259077,4.00692283 C13.9889509,4.06666544 13.2254227,4.50975805 12.7549359,5.212 L12.7549359,17.777 L12.7782651,17.7601316 C13.4923805,17.2719483 14.3447024,17 15.2363079,17 L18.0059359,16.999 L18.0056891,4.798 L18.0033792,4.75457396 L18.0056891,4.71 L18.0059359,3.999 Z M8.9891247,4 L6.00368914,3.999 L6.00599909,4.75457396 L6.00599909,4.75457396 L6.00368914,4.783 L6.00368914,16.999 L8.77307039,17 C9.57551536,17 10.3461406,17.2202781 11.0128313,17.6202194 L11.2536891,17.776 L11.2536891,5.211 C10.8200889,4.56369974 10.1361548,4.13636104 9.37521067,4.02745763 L9.18347055,4.00692283 L8.9891247,4 Z"></path></g></svg></button></div></div><div class="explorer" data-behavior="link" data-collapsed="collapsed" data-savestate="true" data-data-fns="{&quot;order&quot;:[&quot;filter&quot;,&quot;map&quot;,&quot;sort&quot;],&quot;sortFn&quot;:&quot;(a, b) => {\n    if (!a.isFolder &amp;&amp; !b.isFolder || a.isFolder &amp;&amp; b.isFolder) {\n      return (a.displayName || \&quot;\&quot;).localeCompare(b.displayName || \&quot;\&quot;, void 0, {\n        numeric: true,\n        sensitivity: \&quot;base\&quot;\n      });\n    }\n    if (!a.isFolder &amp;&amp; b.isFolder) {\n      return 1;\n    }\n    return -1;\n  }&quot;,&quot;filterFn&quot;:&quot;(node) => node.slugSegment !== \&quot;tags\&quot;&quot;,&quot;mapFn&quot;:&quot;(node) => {\n    return node;\n  }&quot;}" data-quartz-plugin="explorer" data-quartz-component="Explorer"><button type="button" class="explorer-toggle mobile-explorer hide-until-loaded" data-mobile="true" aria-controls="explorer-4" aria-label="探索"><svg xmlns="http://www.w3.org/2000/svg" width="24" height="24" viewBox="0 0 24 24" stroke-width="2" stroke-linecap="round" stroke-linejoin="round" class="lucide-menu"><line x1="4" x2="20" y1="12" y2="12"></line><line x1="4" x2="20" y1="6" y2="6"></line><line x1="4" x2="20" y1="18" y2="18"></line></svg></button><button type="button" class="title-button explorer-toggle desktop-explorer" data-mobile="false" aria-expanded="true"><h2>探索</h2><svg xmlns="http://www.w3.org/2000/svg" width="14" height="14" viewBox="5 8 14 8" fill="none" stroke="currentColor" stroke-width="2" stroke-linecap="round" stroke-linejoin="round" class="fold"><polyline points="6 9 12 15 18 9"></polyline></svg></button><div id="explorer-4" class="explorer-content" aria-expanded="false" role="group"><ul class="explorer-ul nav-files-container overflow" id="list-0"><li class="overflow-end"></li></ul></div><template id="template-file"><li class="tree-item nav-file"><a href="#" class="nav-file-title tree-item-self"><span class="tree-item-inner nav-file-title-content"></span></a></li></template><template id="template-folder"><li class="tree-item nav-folder"><div class="folder-container nav-folder-title tree-item-self"><svg xmlns="http://www.w3.org/2000/svg" width="12" height="12" viewBox="5 8 14 8" fill="none" stroke="currentColor" stroke-width="2" stroke-linecap="round" stroke-linejoin="round" class="folder-icon nav-folder-collapse-indicator collapse-icon"><polyline points="6 9 12 15 18 9"></polyline></svg><div><button class="folder-button"><span class="folder-title tree-item-inner nav-folder-title-content"></span></button></div></div><div class="folder-outer"><ul class="content tree-item-children nav-folder-children"></ul></div></li></template></div></div><div class="center"><div class="page-header"><div class="popover-hint"><nav class="breadcrumb-container" aria-label="breadcrumbs" data-quartz-plugin="breadcrumbs" data-quartz-component="Breadcrumbs"><div class="breadcrumb-element"><a href="./">Home</a><p> ❯ </p></div><div class="breadcrumb-element"><a href>如何发布笔记</a></div></nav><h1 class="article-title inline-title" data-quartz-plugin="article-title" data-quartz-component="ArticleTitle">如何发布笔记</h1><details class="note-properties metadata-container" open data-collapsed="false" data-quartz-plugin="note-properties" data-quartz-component="NotePropertiesComponent"><summary class="note-properties-header"><span class="note-properties-title">Properties</span><span class="note-properties-count">1</span></summary><table class="note-properties-table"><tbody><tr class="note-properties-row metadata-property"><td class="note-properties-key metadata-property-key">tags</td><td class="note-properties-value metadata-property-value"><span class="note-properties-tags"><a href="./tags/指南" class="internal internal-link tag-link">指南</a></span></td></tr></tbody></table></details><p show-comma="true" class="content-meta" data-quartz-plugin="content-meta" data-quartz-component="ContentMeta"><time datetime="2026-11-23T08:01:24.000Z">2026年11月23日</time><span>1分钟阅读</span></p></div></div><article class="popover-hint" data-quartz-plugin="content-page" data-quartz-component="ContentPage"><div class="markdown-preview-view markdown-rendered"><h1 id="如何发布笔记">如何发布笔记<a role="anchor" aria-hidden tabindex="-1" data-no-popover href="#如何发布笔记" class="internal internal-link"><svg width="18" height="18" viewBox="0 0 24 24" fill="none" stroke="currentColor" stroke-width="2" stroke-linecap="round" stroke-linejoin="round"><path d="M10 13a5 5 0 0 0 7.54.54l3-3a5 5 0 0 0-7.07-7.07l-1.72 1.71"></path><path d="M14 11a5 5 0 0 0-7.54-.54l-3 3a5 5 0 0 0 7.07 7.07l1.71-1.71"></path></svg></a></h1>
 <p>这个网站的源文件就是一个 Obsidian 库，位置在项目的 <code>content/</code> 文件夹。</p>
 <h2 id="日常流程">日常流程<a role="anchor" aria-hidden tabindex="-1" data-no-popover href="#日常流程" class="internal internal-link"><svg width="18" height="18" viewBox="0 0 24 24" fill="none" stroke="currentColor" stroke-width="2" stroke-linecap="round" stroke-linejoin="round"><path d="M10 13a5 5 0 0 0 7.54.54l3-3a5 5 0 0 0-7.07-7.07l-1.72 1.71"></path><path d="M14 11a5 5 0 0 0-7.54-.54l-3 3a5 5 0 0 0 7.07 7.07l1.71-1.71"></path></svg></a></h2>
 <ol>
-<li>用 Obsidian 打开 <code>content</code> 文件夹作为库。</li>
+<li>用 Obsidian 打开 <code>content</code> 文件夹作为库（已注册到 Obsidian 的库列表，直接选「我的笔记」即可）。</li>
 <li>像平常一样写笔记，支持 <a href="./obsidian-快捷技巧" class="internal internal-link alias" data-slug="obsidian-快捷技巧">双向链接</a>、标签、callout 等语法。</li>
-<li>在终端执行：</li>
+<li>保存后，双击项目根目录的 <code>sync.bat</code>（或在终端运行 <code>node sync.mjs</code>）。</li>
 </ol>
-<figure data-rehype-pretty-code-figure><pre tabindex="0" data-language="bash" data-theme="github-light github-dark"><code data-language="bash" data-theme="github-light github-dark" style="display:grid;"><span data-line><span style="--shiki-light:#6F42C1;--shiki-dark:#B392F0;" data-token-type="function">npx</span><span style="--shiki-light:#032F62;--shiki-dark:#9ECBFF;" data-token-type="string"> quartz</span><span style="--shiki-light:#032F62;--shiki-dark:#9ECBFF;" data-token-type="string"> sync</span></span></code></pre></figure>
 <div class="callout tip" data-callout="tip"><div class="callout-title"><div class="callout-icon"></div><div class="callout-title-inner">发生了什么</div></div><div class="callout-content">
-<p><code>sync</code> 会提交 <code>content/</code> 里的改动并推送到 GitHub，随后 GitHub Actions 自动构建并发布网站，通常 1 分钟内生效。</p>
+<p>脚本会把 <code>content/</code> 里的新增、修改、删除同步到 GitHub 的 <code>v5</code> 分支，然后自动构建并发布到网站，通常 1 分钟内生效。全程走 GitHub API，不需要 Git 推送。</p>
 </div></div>
 <p>如果只想先本地预览：</p>
 <figure data-rehype-pretty-code-figure><pre tabindex="0" data-language="bash" data-theme="github-light github-dark"><code data-language="bash" data-theme="github-light github-dark" style="display:grid;"><span data-line><span style="--shiki-light:#6F42C1;--shiki-dark:#B392F0;" data-token-type="function">npx</span><span style="--shiki-light:#032F62;--shiki-dark:#9ECBFF;" data-token-type="string"> quartz</span><span style="--shiki-light:#032F62;--shiki-dark:#9ECBFF;" data-token-type="string"> build</span><span style="--shiki-light:#005CC5;--shiki-dark:#79B8FF;" data-token-type="value"> --serve</span></span></code></pre></figure>
